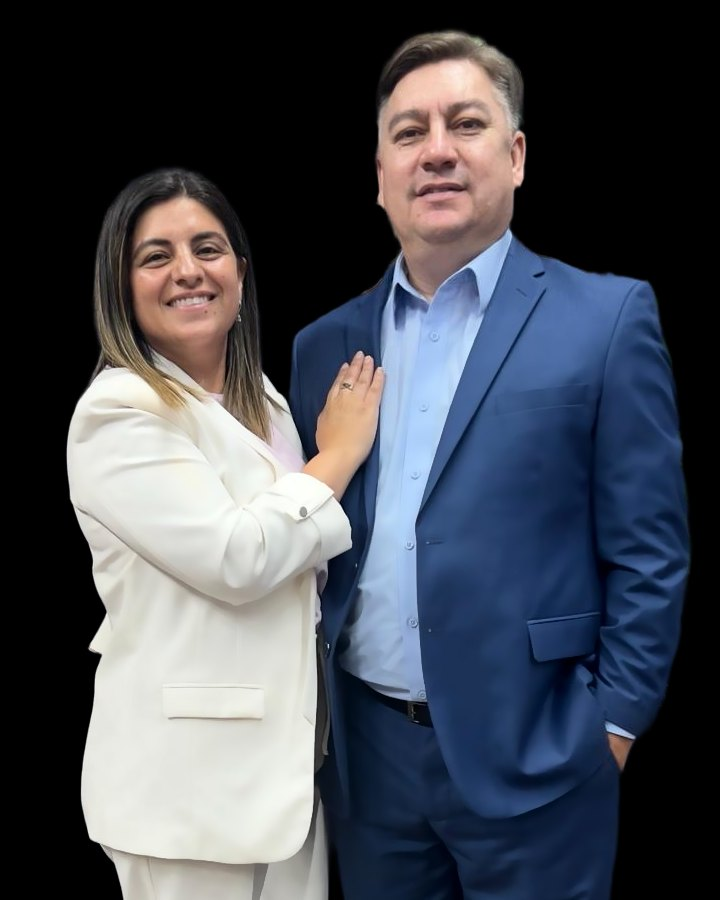
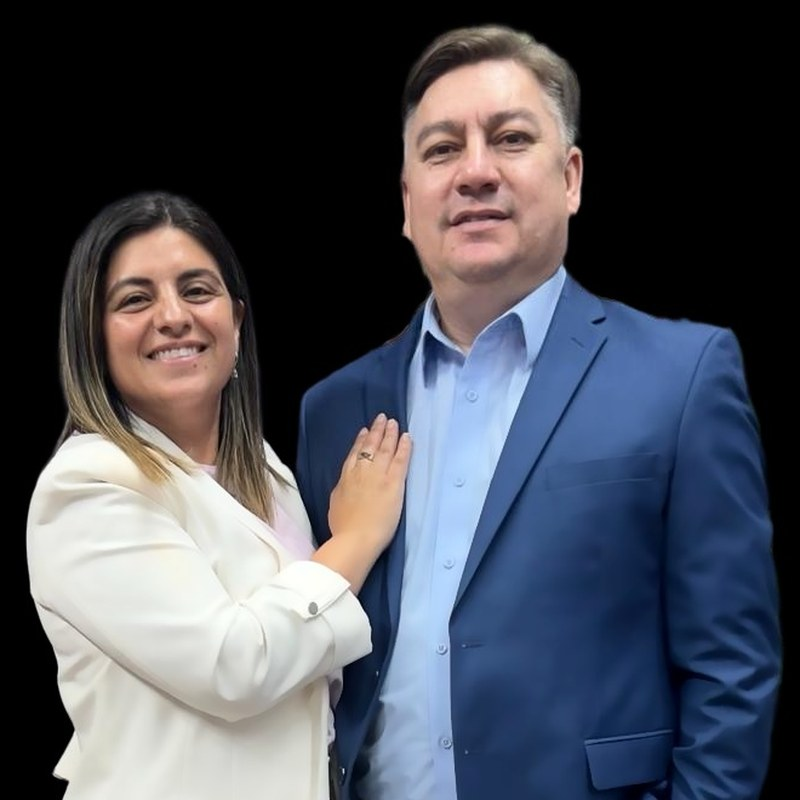
Recortar la foto de los pastores de la cintura para arriba
Claude-Session: https://claude.ai/code/session_01BsrmYgyDNnKC3zn3UYXwap

diff --git a/index.html b/index.html
@@ -30,7 +30,7 @@
 :root[data-theme="dark"]{
   --bg:#0a0a0a; --surface:#171717; --ink:#f2f2f0; --muted:#a8a8a2; --line:#2a2a28;
   --brand:#000000; --brand-ink:#ffffff; --clay:#f5c518; --clay-soft:#2e2608; --accent:#f5c518; --accent-ink:#0d0d0d; --ok:#5fbf86; --live:#ff6b6b; color-scheme:dark}
-.pastores-foto{width:100%;aspect-ratio:4/5;object-fit:cover;border-radius:14px;background:#000;display:block}
+.pastores-foto{width:100%;aspect-ratio:1/1;object-fit:cover;border-radius:14px;background:#000;display:block}
 .people{display:flex;flex-direction:column;gap:14px}
 .person{display:flex;align-items:center;gap:14px}
 .person .ph{width:64px;height:64px;border-radius:50%;flex:none;background:var(--brand) center/cover no-repeat;color:var(--accent);display:grid;place-items:center;font-family:var(--display);font-weight:700;font-size:1.3rem}

diff --git a/sw.js b/sw.js
@@ -1,5 +1,5 @@
 // Guarda la app para que abra aunque no haya internet. Cambia VERSION al publicar cambios.
-const VERSION = 'cda-v4';
+const VERSION = 'cda-v5';
 const FILES = ['./', 'index.html', 'manifest.webmanifest', 'icons/icon-192.png', 'icons/icon-512.png', 'icons/apple-touch-icon.png'];
 self.addEventListener('install', e => { e.waitUntil(caches.open(VERSION).then(c => c.addAll(FILES))); self.skipWaiting(); });
 self.addEventListener('activate', e => { e.waitUntil(caches.keys().then(ks => Promise.all(ks.filter(k => k !== VERSION).map(k => caches.delete(k))))); self.clients.claim(); });
